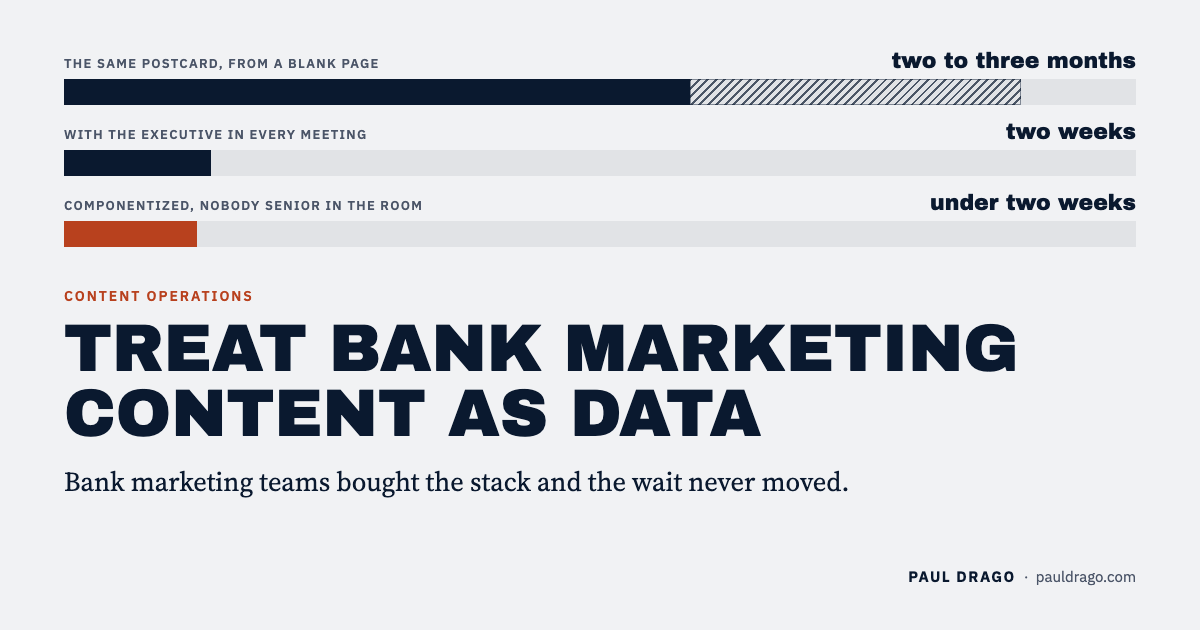
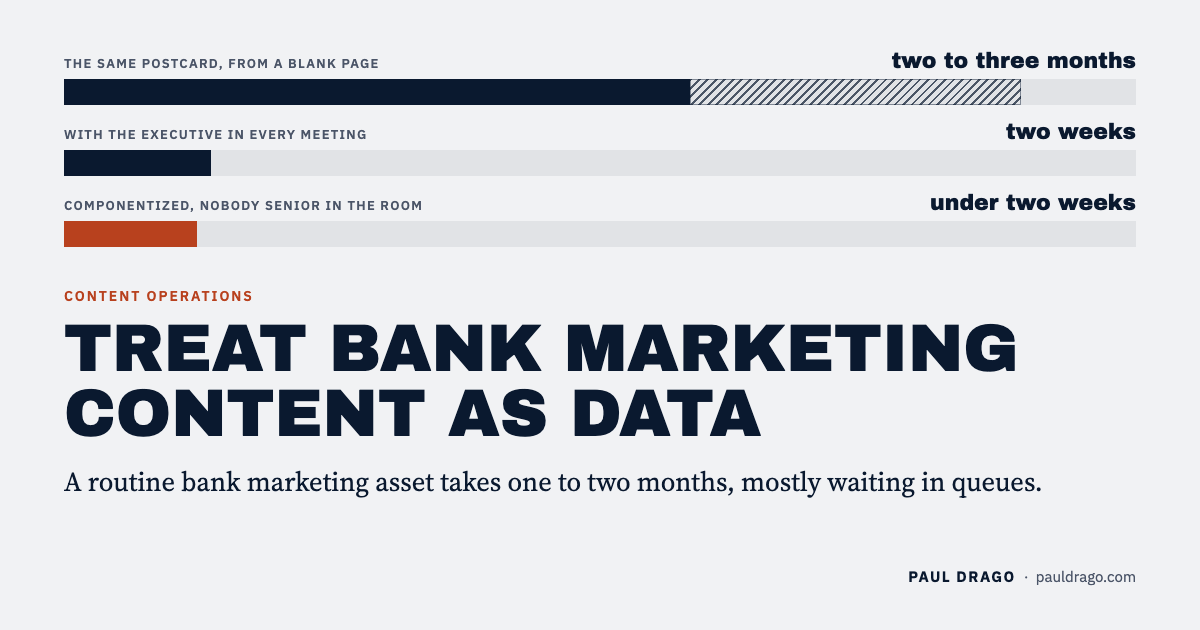
Dek with the facts in it for Treat Bank Marketing Content as Data (#23)
- The dek now reads: "A routine bank marketing asset takes one to two months, mostly waiting in queues. Pharma approves each claim once and averages 1.3 review cycles an asset, against 3 to 5 versions in marketing tools."
- The old dek named nothing: "bought the stack", "the wait never moved", "one regulated industry", "works this way" and "measures the result" each pointed at a fact the article has.
- The social image's line under the title is the new first sentence, set in the same type and position.
- The anti-slop skill has a new withheld-specifics rule that flags each of the old phrases. It finds no other hits on the site.

Changed region(s): [[0.0308, 0.754, 0.8633, 0.7841]]

diff --git a/src/content/articles/treat-bank-marketing-content-as-data.md b/src/content/articles/treat-bank-marketing-content-as-data.md
@@ -1,6 +1,6 @@
 ---
 title: "Treat Bank Marketing Content as Data"
-description: "Bank marketing teams bought the stack and the wait never moved. One regulated industry already works this way, and it measures the result."
+description: "A routine bank marketing asset takes one to two months, mostly waiting in queues. Pharma approves each claim once and averages 1.3 review cycles an asset, against 3 to 5 versions in marketing tools."
 date: 2026-09-25
 draft: false
 kicker: "Content operations"
